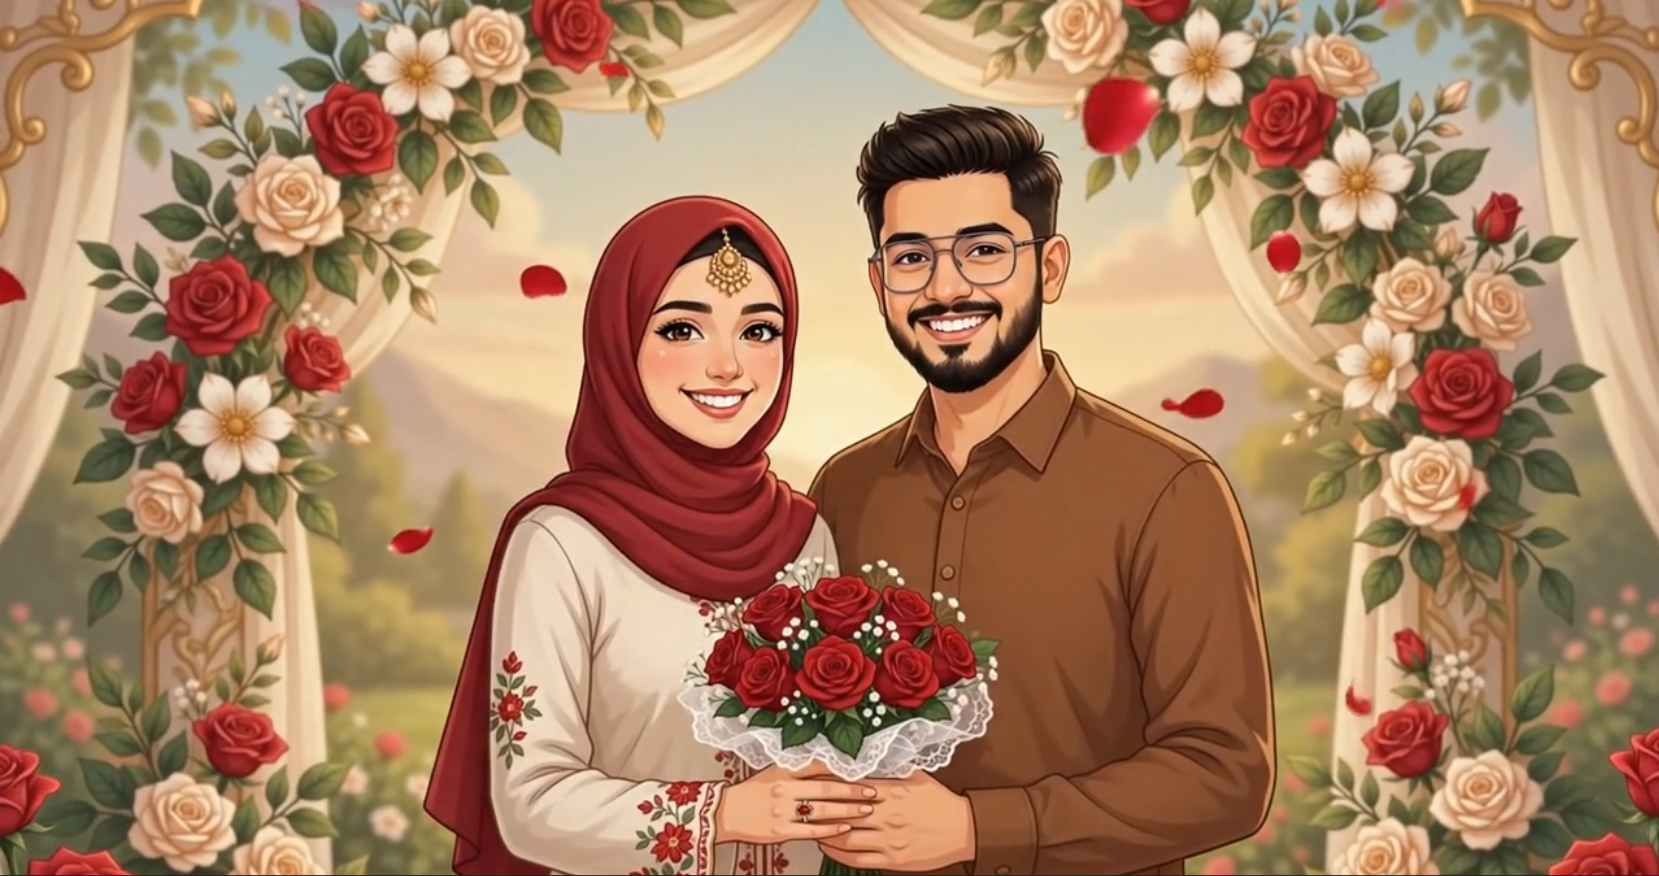
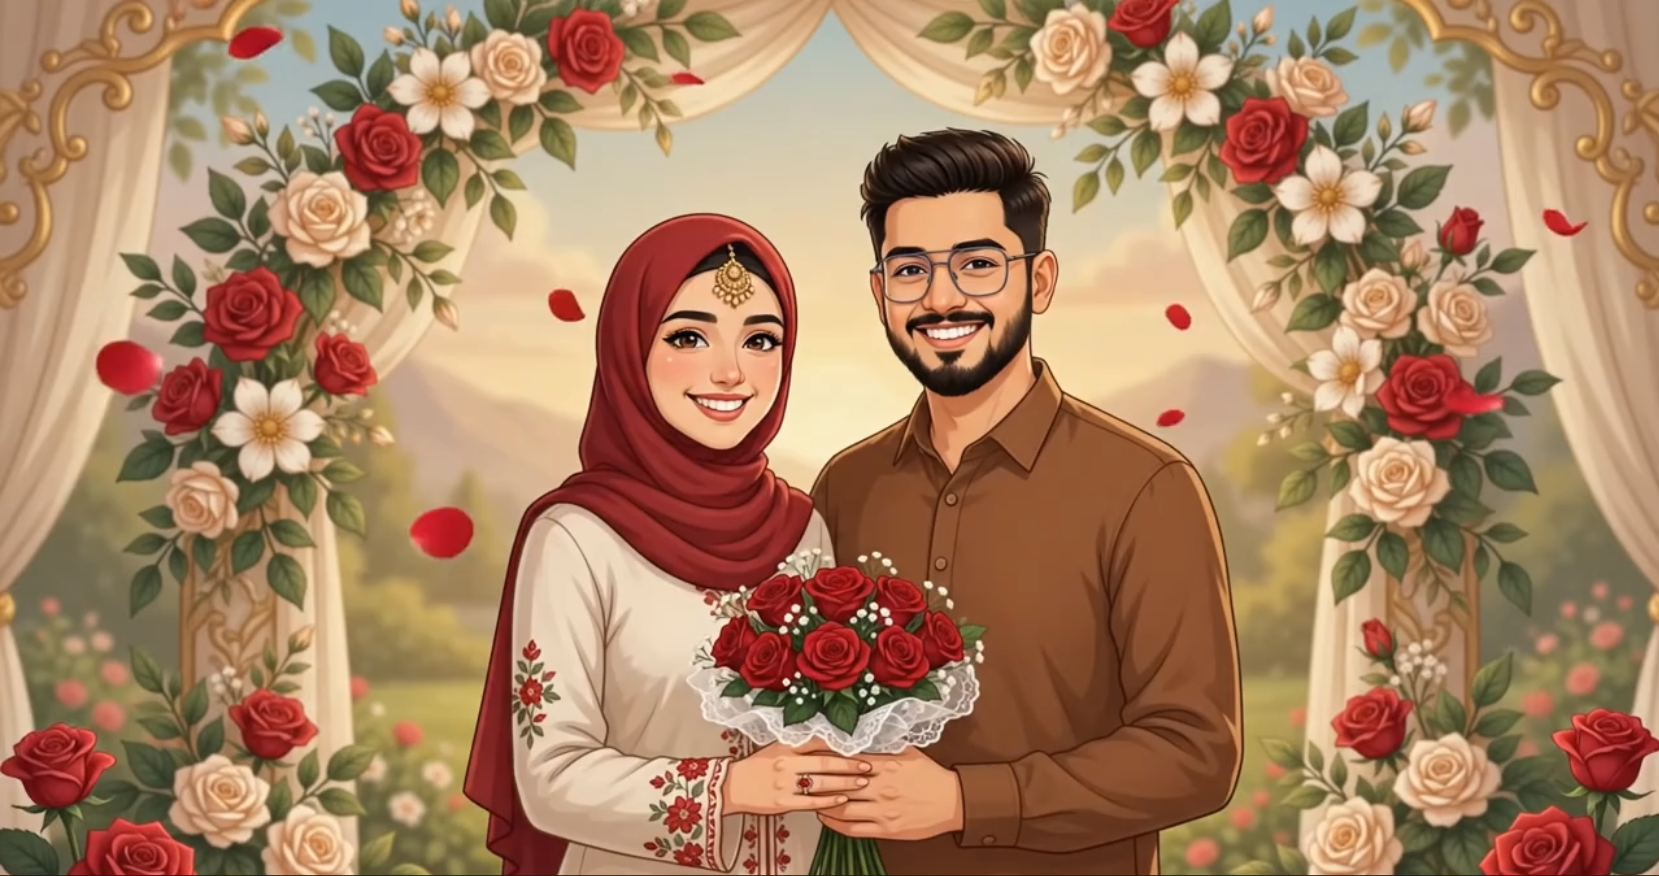
refactor: update image references from couple.jpeg to couple.png for consistency and improved quality

diff --git a/index.html b/index.html
@@ -574,7 +574,7 @@
                clip altogether on a metered or very slow connection — the poster
                alone is a perfectly good portrait. -->
           <video data-src="assets/couple.mp4" width="960" height="540"
-                 data-poster="assets/images/couple.jpeg"
+                 data-poster="assets/images/couple.png"
                  muted loop playsinline preload="none"
                  aria-label="Muhammed Ashiq and Fathima Sherin"></video>
           <span class="portrait__sheen" aria-hidden="true"></span>

diff --git a/tools/og-banner.html b/tools/og-banner.html
@@ -101,7 +101,7 @@
 
   <div class="row">
     <div class="photo">
-      <div class="arch"><img src="../assets/images/couple.jpeg" alt="" /></div>
+      <div class="arch"><img src="../assets/images/couple.png" alt="" /></div>
     </div>
 
     <div class="text">

diff --git a/README.md b/README.md
@@ -30,7 +30,7 @@ site.webmanifest               name + icons for "Add to Home Screen"
 assets/GateOpen1.png           the gate painting, as supplied
 assets/gate3-*.{jpg,png}       the pieces it is cut into — see The gate, below
 tools/build-gate3.py           cuts them; re-run it if the painting changes
-assets/images/couple.jpeg      the portrait (cropped from ashiq-sherin.jpeg)
+assets/images/couple.png      the portrait (cropped from ashiq-sherin.jpeg)
 assets/images/og-banner.jpg    the 1200×630 WhatsApp share picture
 assets/favicon.svg             tab icon (+ the png sizes beside it)
 assets/audio/README.md         how to add the background music
